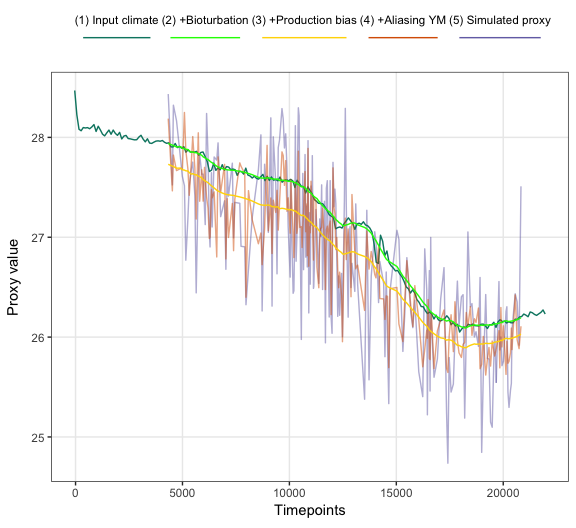
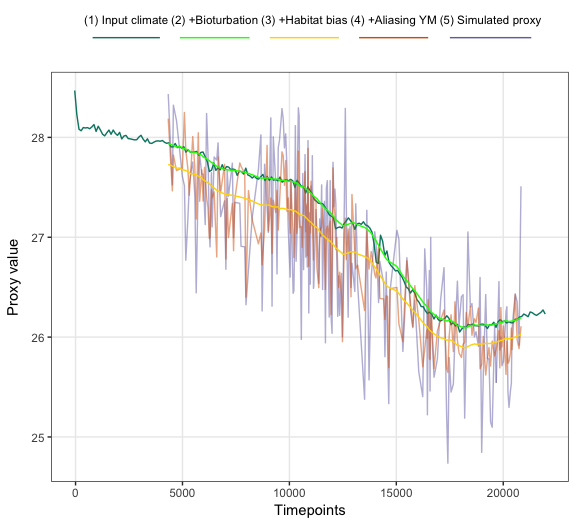
update readme

Changed region(s): [[0.125, 0.0303, 0.9688, 0.0606]]

diff --git a/readme.md b/readme.md
@@ -172,18 +172,18 @@ PFM$everything
 
 ```
 ## # A tibble: 11,885 x 9
-##    timepoints replicate stage    value label description        plot.order
-##         <dbl>     <dbl> <chr>    <dbl> <chr> <chr>                   <dbl>
-##  1       4334      1.00 proxy.… 0.0251 (4) … Climate signal af…       7.00
-##  2       4527      1.00 proxy.… 0.0251 (4) … Climate signal af…       7.00
-##  3       4576      1.00 proxy.… 0.0251 (4) … Climate signal af…       7.00
-##  4       4721      1.00 proxy.… 0.0251 (4) … Climate signal af…       7.00
-##  5       4914      1.00 proxy.… 0.0251 (4) … Climate signal af…       7.00
-##  6       4994      1.00 proxy.… 0.0250 (4) … Climate signal af…       7.00
-##  7       5092      1.00 proxy.… 0.0250 (4) … Climate signal af…       7.00
-##  8       5156      1.00 proxy.… 0.0250 (4) … Climate signal af…       7.00
-##  9       5254      1.00 proxy.… 0.0250 (4) … Climate signal af…       7.00
-## 10       5318      1.00 proxy.… 0.0250 (4) … Climate signal af…       7.00
+##    timepoints replicate stage    value label  description       plot.order
+##         <dbl>     <dbl> <chr>    <dbl> <chr>  <chr>                  <dbl>
+##  1       4334      1.00 proxy.… 0.0251 (4) +… Climate signal a…       7.00
+##  2       4527      1.00 proxy.… 0.0251 (4) +… Climate signal a…       7.00
+##  3       4576      1.00 proxy.… 0.0251 (4) +… Climate signal a…       7.00
+##  4       4721      1.00 proxy.… 0.0251 (4) +… Climate signal a…       7.00
+##  5       4914      1.00 proxy.… 0.0251 (4) +… Climate signal a…       7.00
+##  6       4994      1.00 proxy.… 0.0250 (4) +… Climate signal a…       7.00
+##  7       5092      1.00 proxy.… 0.0250 (4) +… Climate signal a…       7.00
+##  8       5156      1.00 proxy.… 0.0250 (4) +… Climate signal a…       7.00
+##  9       5254      1.00 proxy.… 0.0250 (4) +… Climate signal a…       7.00
+## 10       5318      1.00 proxy.… 0.0250 (4) +… Climate signal a…       7.00
 ## # ... with 11,875 more rows, and 2 more variables: plotting.colour <chr>,
 ## #   plotting.alpha <dbl>
 ```
